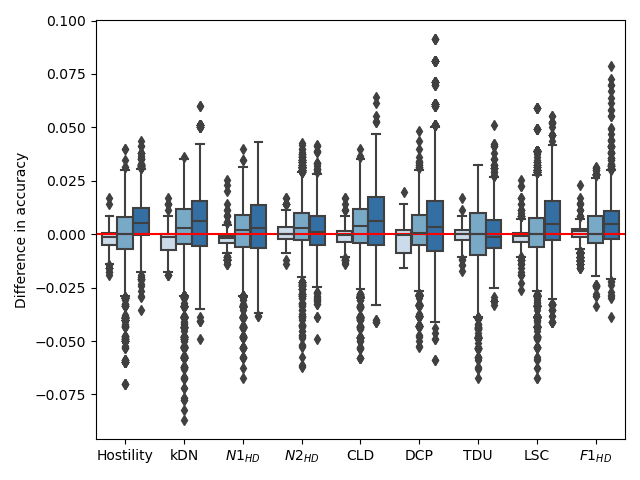
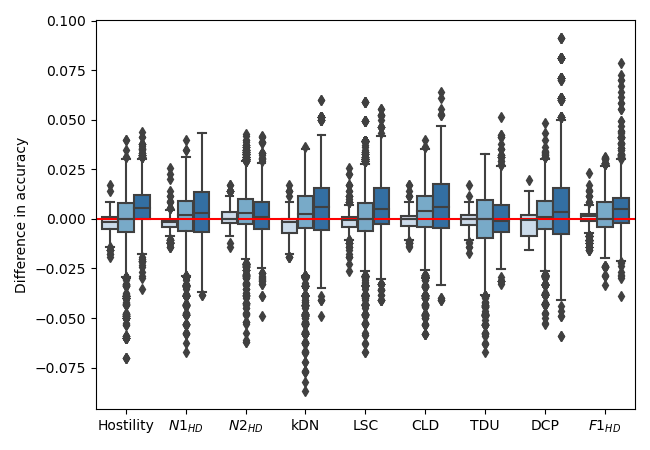
boxplots difference accuracy legend ok

diff --git a/Analysis_results.py b/Analysis_results.py
@@ -628,13 +628,15 @@ Intermediate_datasets = ['teaching_assistant_LH','teaching_assistant_MH',
 diff_classic_total['complexity'].loc[diff_classic_total['dataset'].isin(complex_datasets)] = 'Hard'
 diff_classic_total['complexity'].loc[diff_classic_total['dataset'].isin(Intermediate_datasets)] = 'Intermediate'
 
-hue_order = ['easy','intermediate','hard']
+hue_order = ['Easy','Intermediate','Hard']
+
+plt.figure(figsize=(6.5,4.5))
 # sns.color_palette("pastel")
-ax = sns.boxplot(y=diff_classic_total["accuracy_mean_split1_classic"],
+ax = sns.boxplot(y=diff_classic_total["accuracy_mean_split1_classic_extreme"],
                  x=diff_classic_total["weights"], hue=diff_classic_total["complexity"],
                  hue_order=hue_order,palette="Blues",
             order=['Hostility',
-                   'kDN','N1','N2','CLD' , 'DCP','TD_U','LSC','F1'])
+                   'N1','N2','kDN','LSC','CLD' , 'TD_U','DCP','F1'])
             #      color='white')
 ax.axhline(0, c='red')
 # sns.stripplot(data=df_long_host, x="variable", y="Complexity", dodge=True, ax=ax,
@@ -644,10 +646,14 @@ ax.axhline(0, c='red')
 #                      'Boots_Hostility_dataset_mean_split2', 'Boots_Hostility_dataset_mean_split2_extreme',
 #                      'Boots_Hostility_dataset_mean_split4', 'Boots_Hostility_dataset_mean_split4_extreme',
 #                      'Boots_Hostility_dataset_mean_split9', 'Boots_Hostility_dataset_mean_split9_extreme'])
-ax.set_xticklabels(['Hostility',
-                   'kDN','$N1_{HD}$','$N2_{HD}$','CLD' ,'DCP','TDU', 'LSC','$F1_{HD}$'])
+ax.set_xticklabels(['Hostility','$N1_{HD}$','$N2_{HD}$',
+                   'kDN','LSC','CLD' ,'TDU','DCP', '$F1_{HD}$'])
+# ax.set_xticklabels(['Hostility','N1','N2',
+#                    'kDN','LSC','CLD' ,'TDU','DCP', 'F1'])
 ax.set(ylabel='Difference in accuracy', xlabel='')
-# ax.legend(title='Datasets',ncol=3)
+# ax.legend(title='Datasets',ncol=1)
+# sns.move_legend(ax, "lower center",
+#     bbox_to_anchor=(.5, 1), ncol=3, title='Datasets')
 ax.legend([],[], frameon=False)
 plt.tight_layout()
 plt.show()
